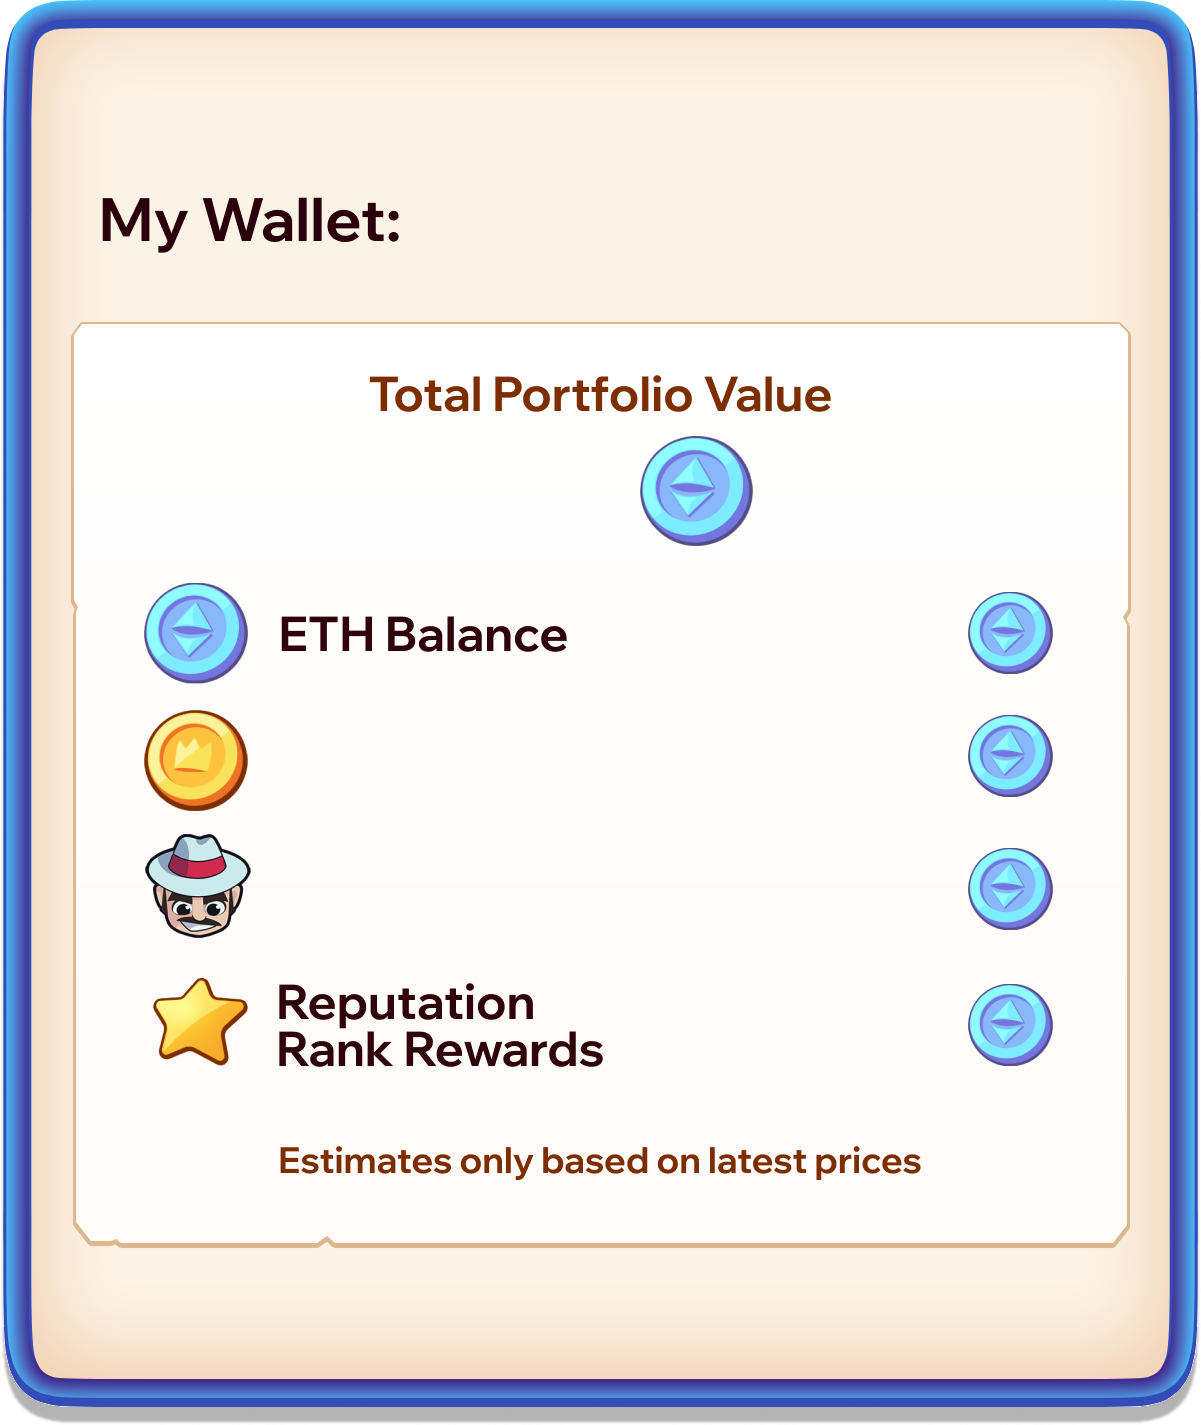
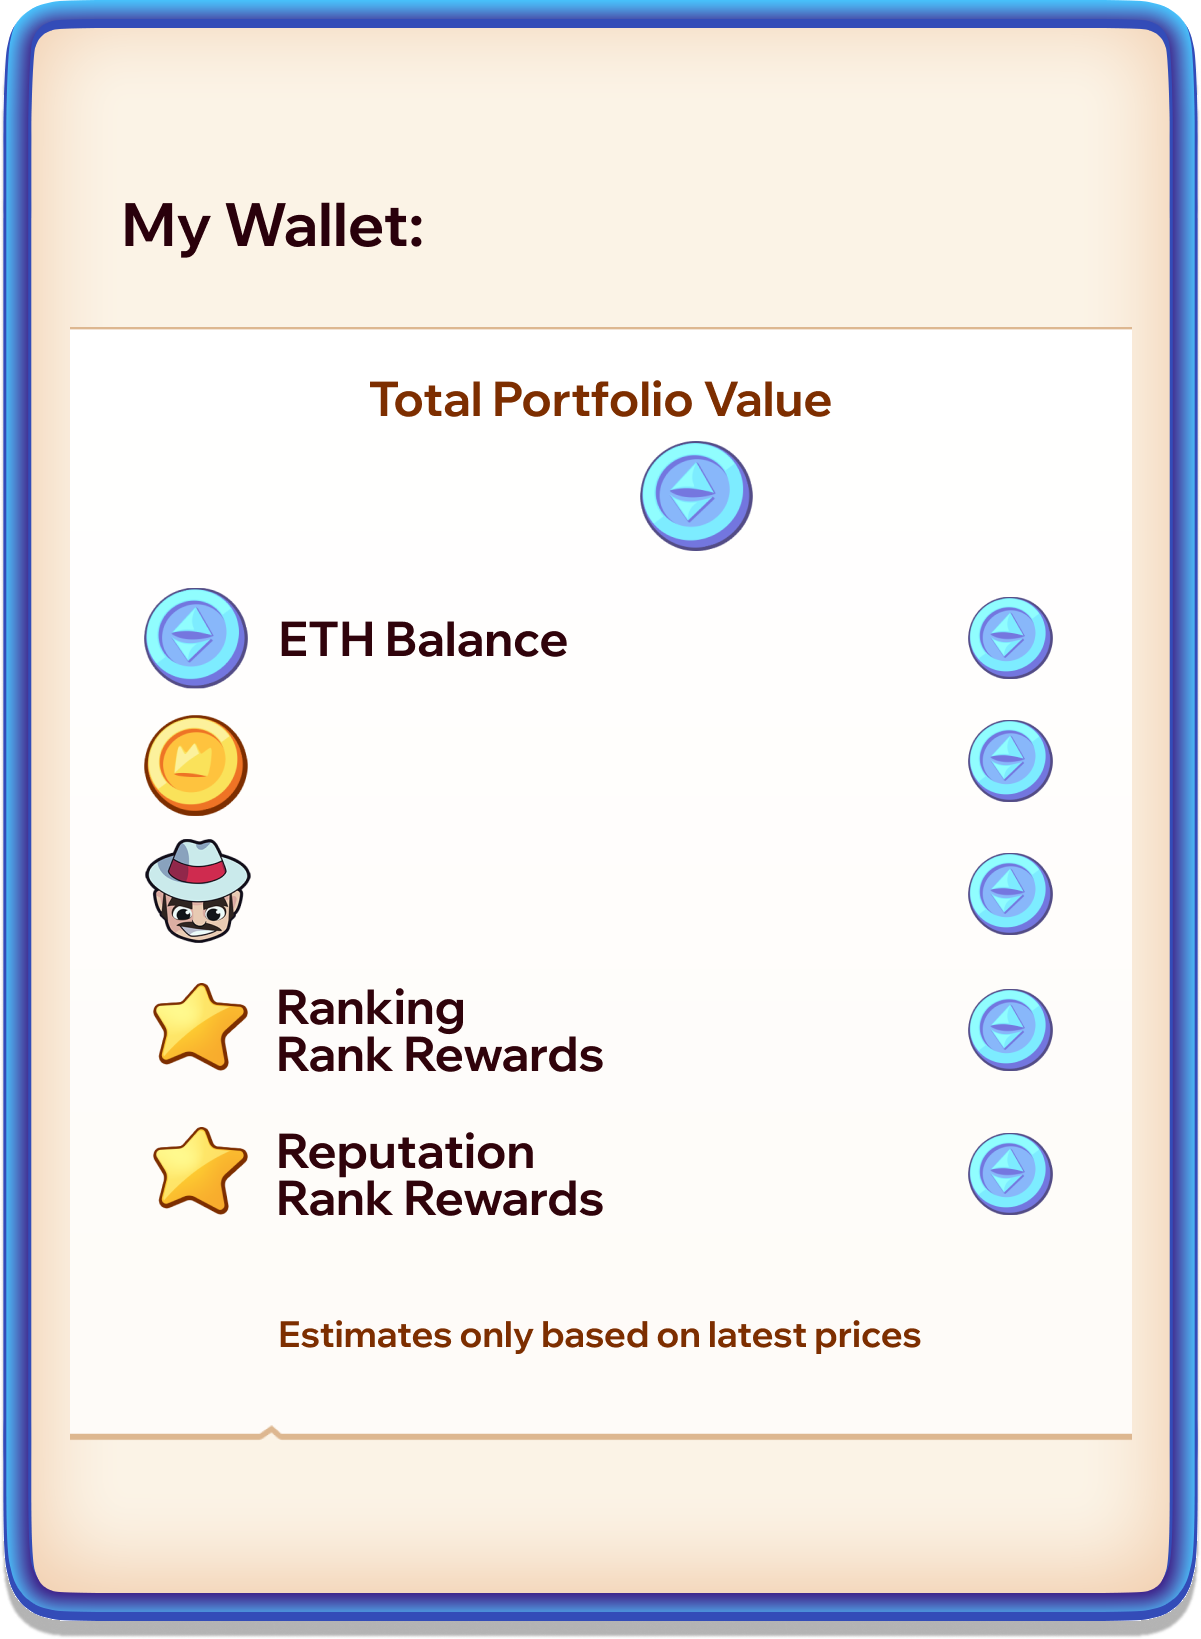
feat: add reputation rewards to portfolio

diff --git a/app/src/pages/Game/components/popup/PopupPortfolio.js b/app/src/pages/Game/components/popup/PopupPortfolio.js
@@ -44,7 +44,7 @@ class PopupPortfolio extends Popup {
     this.add(this.statisticBtn);
 
     this.addressText = scene.add
-      .text(this.popup.x - 160, this.popup.y - 490, '', {
+      .text(this.popup.x - 160, this.popup.y - 590, '', {
         fontSize: '60px',
         color: '#7D2E00',
         fontFamily: 'WixMadeforDisplayExtraBold',
@@ -64,7 +64,7 @@ class PopupPortfolio extends Popup {
     this.add(this.copyBtn);
 
     this.totalBalanceText = scene.add
-      .text(this.popup.x + 10, this.popup.y - 220, '', {
+      .text(this.popup.x + 10, this.popup.y - 320, '', {
         fontSize: '60px',
         color: '#30030B',
         fontFamily: 'WixMadeforDisplayExtraBold',
@@ -73,7 +73,7 @@ class PopupPortfolio extends Popup {
     this.add(this.totalBalanceText);
 
     this.balanceText = scene.add
-      .text(this.popup.x + 350, this.popup.y - 80, '', {
+      .text(this.popup.x + 350, this.popup.y - 180, '', {
         fontSize: '48px',
         color: '#30030B',
         fontFamily: 'WixMadeforDisplayBold',
@@ -82,7 +82,7 @@ class PopupPortfolio extends Popup {
     this.add(this.balanceText);
 
     this.tokenBalanceText = scene.add
-      .text(this.popup.x - 330, this.balanceText.y + lineGap, '', {
+      .text(this.popup.x - 330, this.balanceText.y + lineGap - 10, '', {
         fontSize: '48px',
         color: '#30030B',
         fontFamily: 'WixMadeforDisplayBold',
@@ -118,17 +118,35 @@ class PopupPortfolio extends Popup {
     this.add(this.machineValueText);
 
     this.rankRewardText = scene.add
-      .text(this.balanceText.x, this.machineValueText.y + lineGap, '', {
+      .text(this.balanceText.x, this.machineValueText.y + lineGap + 10, '', {
         fontSize: '48px',
         color: '#30030B',
         fontFamily: 'WixMadeforDisplayBold',
       })
       .setOrigin(1, 0.5);
     this.add(this.rankRewardText);
+    this.reputationRewardText = scene.add
+      .text(this.balanceText.x, this.machineValueText.y + lineGap * 2 + 20, '', {
+        fontSize: '48px',
+        color: '#30030B',
+        fontFamily: 'WixMadeforDisplayBold',
+      })
+      .setOrigin(1, 0.5);
+    this.add(this.reputationRewardText);
 
     scene.game.events.on(
       'update-portfolio',
-      ({ address, totalBalance, ETHBalance, tokenBalance, tokenValue, numberOfMachines, machineValue, rankReward }) => {
+      ({
+        address,
+        totalBalance,
+        ETHBalance,
+        tokenBalance,
+        tokenValue,
+        numberOfMachines,
+        machineValue,
+        rankReward,
+        reputationReward,
+      }) => {
         this.address = address;
         this.addressText.text = this.formatAddress(address);
         this.copyBtn.x = this.addressText.x + this.addressText.width + 120;
@@ -139,6 +157,7 @@ class PopupPortfolio extends Popup {
         this.numberOfMachinesText.text = `${numberOfMachines} Gangster NFTs`;
         this.machineValueText.text = `~${formatter.format(machineValue)}`;
         this.rankRewardText.text = `~${formatter.format(rankReward)}`;
+        this.reputationRewardText.text = `~${formatter.format(reputationReward)}`;
       }
     );
 

diff --git a/app/src/pages/Game/index.js b/app/src/pages/Game/index.js
@@ -897,10 +897,10 @@ const Game = () => {
 
       gameRef.current?.events.on('request-portfolio', () => {
         getRank().then((res) => {
-          const { reward: rankReward } = res.data;
+          const { rankReward, reputationReward } = res.data;
           const tokenValue = tokenBalance * parseFloat(tokenPrice); // TODO: update formulas to calculate token value
           const machineValue = numberOfMachines * parseFloat(nftPrice); // TODO: update formulas to calculate machine value
-          const totalBalance = parseFloat(ETHBalance) + tokenValue + machineValue + rankReward;
+          const totalBalance = parseFloat(ETHBalance) + tokenValue + machineValue + rankReward + reputationReward;
           gameRef.current?.events.emit('update-portfolio', {
             address,
             totalBalance,
@@ -910,6 +910,7 @@ const Game = () => {
             numberOfMachines,
             machineValue,
             rankReward,
+            reputationReward,
           });
         });
       });
@@ -1376,11 +1377,11 @@ const Game = () => {
 
   useEffect(() => {
     if (rankData?.data) {
-      const { reward: rankReward } = rankData.data;
+      const { rankReward, reputationReward } = rankData.data;
 
       const tokenValue = tokenBalance * parseFloat(tokenPrice);
       const machineValue = numberOfMachines * parseFloat(nftPrice);
-      const totalBalance = parseFloat(ETHBalance) + tokenValue + machineValue + rankReward;
+      const totalBalance = parseFloat(ETHBalance) + tokenValue + machineValue + rankReward + reputationReward;
       gameRef.current?.events.emit('update-portfolio', {
         address,
         totalBalance,
@@ -1390,6 +1391,7 @@ const Game = () => {
         numberOfMachines,
         machineValue,
         rankReward,
+        reputationReward,
       });
     }
   }, [rankData, address, tokenBalance, numberOfMachines, ETHBalance]);

diff --git a/backend/services/user.service.js b/backend/services/user.service.js
@@ -146,7 +146,7 @@ export const getUserRankAndReward = async (userId) => {
   const user = leaderboard.find((item) => item.isUser);
   if (user) {
     const { rank, rankReward, reputationReward } = user;
-    return { rank, reward: rankReward + reputationReward, totalPlayers: leaderboard.length };
+    return { rank, rankReward, reputationReward, totalPlayers: leaderboard.length };
   }
 
   return null;
